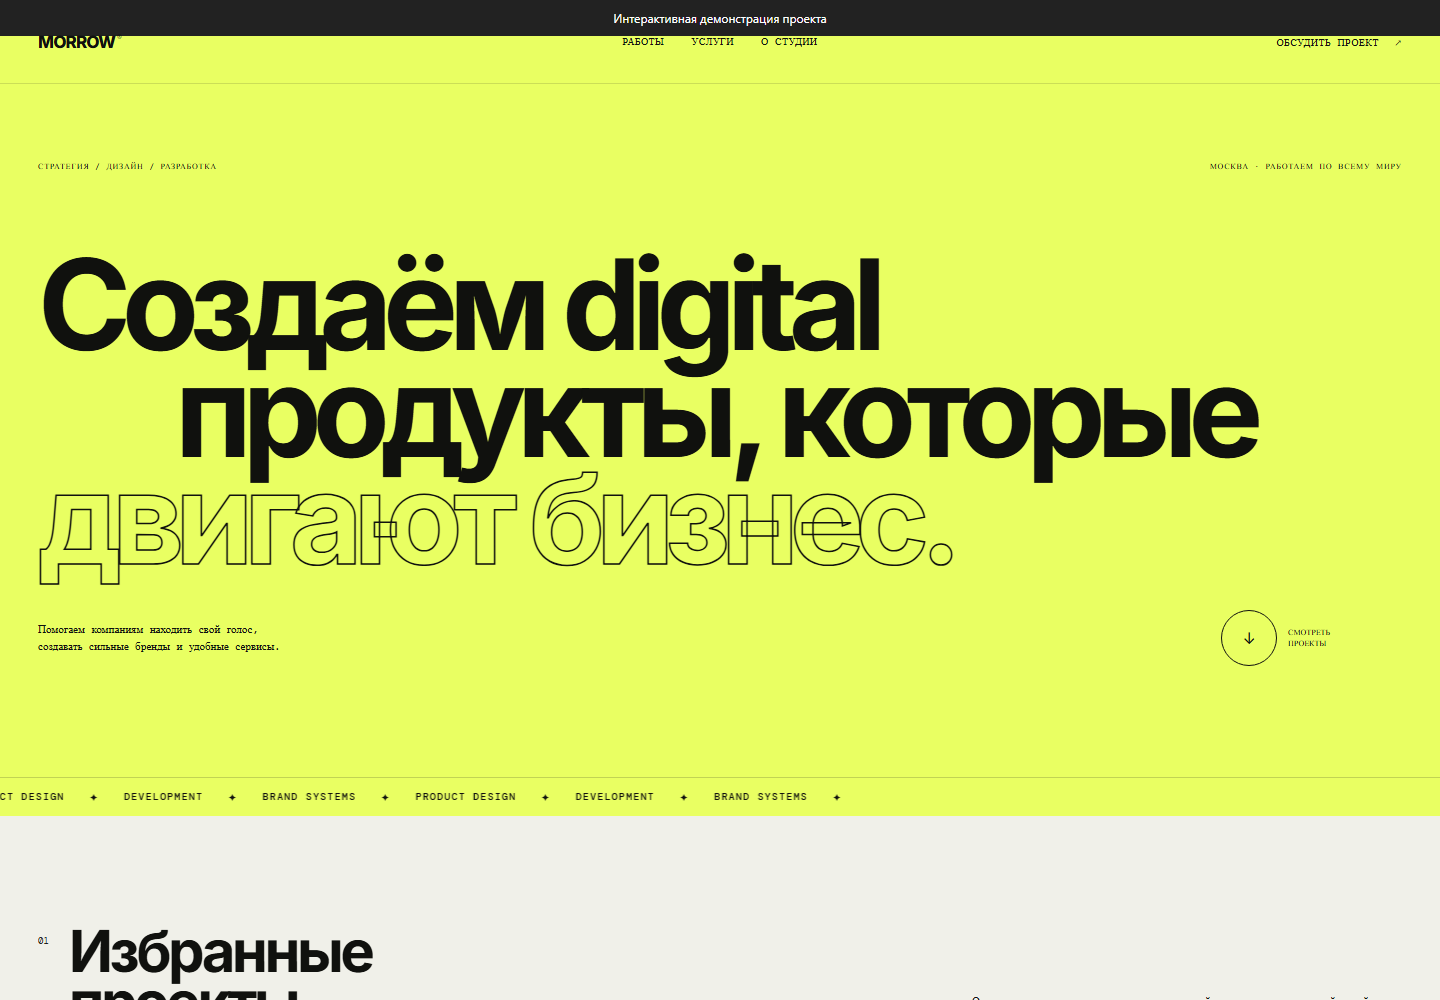
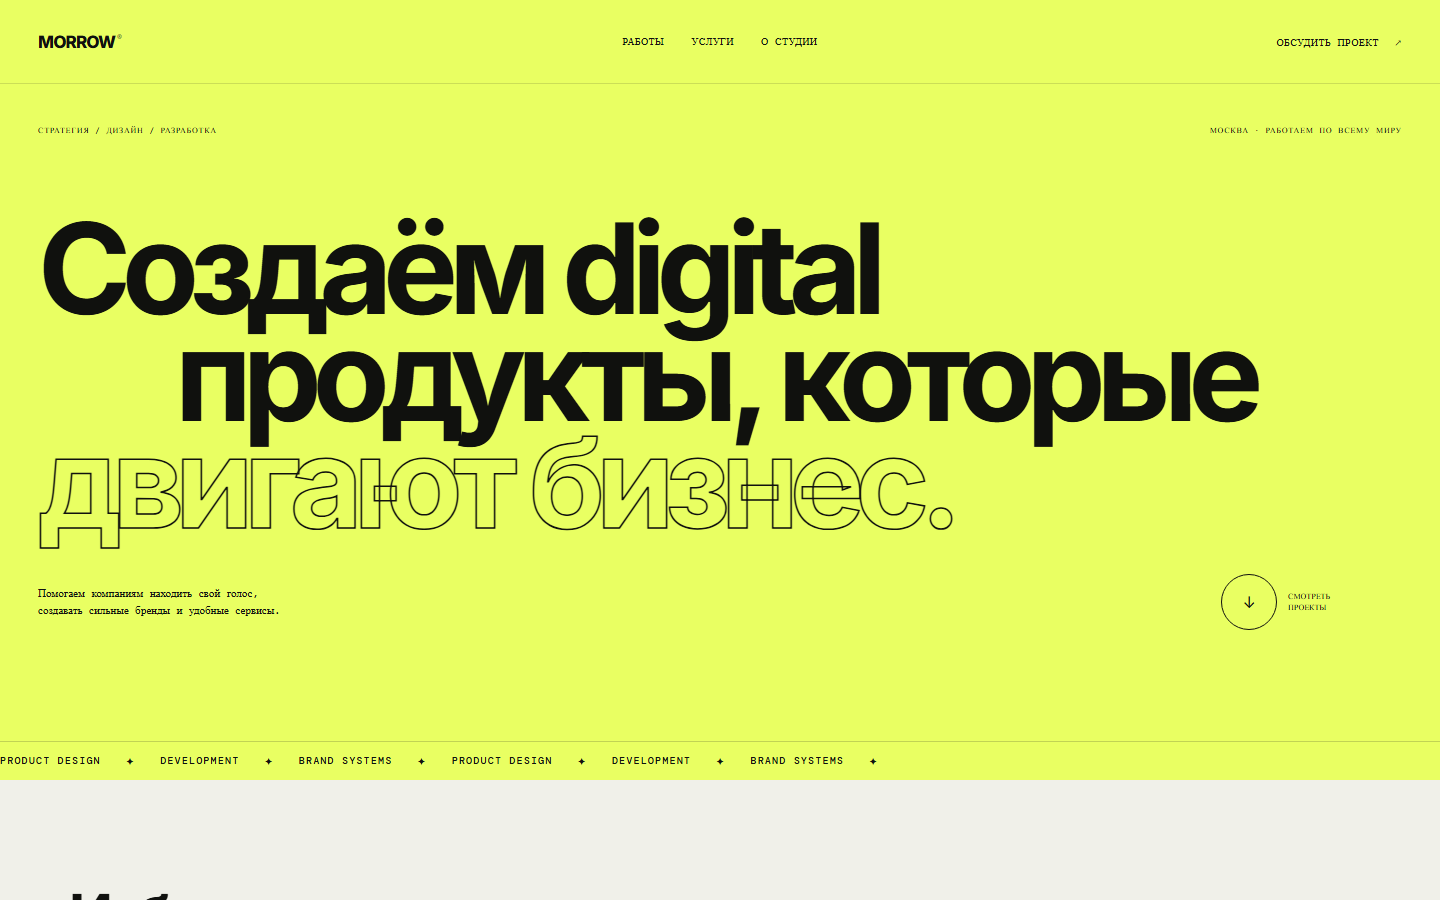
Polish project presentation, mobile layout and browser access

diff --git a/styles.css b/styles.css
@@ -1,7 +1,7 @@
 :root{--acid:#e9ff62;--black:#10110e;--paper:#f0f0e9;--muted:#77786f;--line:#c9cbc0;font-family:Inter,sans-serif;color:var(--black);background:var(--paper);font-synthesis:none}*{box-sizing:border-box}html{scroll-behavior:smooth}body{margin:0;min-width:320px;overflow-x:hidden}a{color:inherit;text-decoration:none}button,input,textarea{font:inherit}.header{position:absolute;top:0;left:0;right:0;z-index:4;display:grid;grid-template-columns:1fr auto 1fr;align-items:center;height:84px;padding:0 38px;border-bottom:1px solid #20211d26}.logo{font-size:17px;font-weight:800;letter-spacing:-.05em}.logo span{vertical-align:top;margin-left:2px;font:400 7px DM Mono}.header nav{display:flex;gap:27px}.header nav a,.contact-link{font:400 10px DM Mono;text-transform:uppercase;letter-spacing:.04em}.contact-link{justify-self:end}.contact-link span{margin-left:9px}.menu-button{display:none;border:0;background:none}.hero{position:relative;min-height:780px;padding:125px 38px 0;background:var(--acid);overflow:hidden}.hero-meta{display:flex;justify-content:space-between;margin-bottom:80px;font:400 8px DM Mono;letter-spacing:.1em;text-transform:uppercase}.hero h1{margin:0;font-size:clamp(62px,8.75vw,132px);font-weight:700;line-height:.85;letter-spacing:-.075em}.hero h1 span{display:block}.hero h1 span:nth-child(2){margin-left:9.5vw}.hero h1 .outline{color:transparent;-webkit-text-stroke:1.5px var(--black)}.hero-bottom{display:flex;align-items:end;justify-content:space-between;margin-top:38px;padding-bottom:30px}.hero-bottom>p{font:400 11px/1.55 DM Mono}.circle-link{display:flex;align-items:center;gap:11px;margin-right:5vw}.circle-link i{display:grid;place-items:center;width:56px;height:56px;border:1px solid var(--black);border-radius:50%;font-style:normal;transition:.2s}.circle-link:hover i{transform:rotate(-45deg);background:var(--black);color:var(--acid)}.circle-link span{font:400 8px/1.4 DM Mono;text-transform:uppercase}.ticker{position:absolute;left:0;right:0;bottom:0;border-top:1px solid #24251f33;overflow:hidden}.ticker div{display:flex;width:max-content;gap:25px;padding:12px 0;animation:ticker 24s linear infinite;font:500 10px DM Mono;letter-spacing:.12em}.ticker i{font-style:normal}@keyframes ticker{to{transform:translateX(-50%)}}
 .work{padding:110px 38px 130px}.section-heading{display:grid;grid-template-columns:1fr minmax(260px,430px);gap:60px;align-items:end;margin-bottom:65px}.section-heading>div{display:flex;gap:20px;align-items:start}.index{font:400 9px DM Mono;padding-top:9px}.section-heading h2{margin:0;font-size:58px;line-height:.88;letter-spacing:-.06em}.section-heading>p{margin:0;font:400 11px/1.65 DM Mono}.filters{display:flex;gap:7px;margin-bottom:20px}.filters button{border:1px solid #babcb1;border-radius:24px;background:none;padding:9px 15px;font:400 9px DM Mono;text-transform:uppercase;cursor:pointer}.filters button.active{background:var(--black);border-color:var(--black);color:white}.filters sup{margin-left:4px;font-size:6px}.project-grid{display:grid;grid-template-columns:1fr 1fr;gap:60px 18px}.project{transition:.3s}.project.hidden{display:none}.project-wide{grid-column:1/-1}.project-visual{position:relative;height:560px;overflow:hidden;background:#ddd}.project:not(.project-wide) .project-visual{height:500px}.project-caption{display:grid;grid-template-columns:1fr 1fr 24px;gap:30px;padding:15px 0;border-bottom:1px solid #bfc1b6}.project-caption span{font:400 7px DM Mono;text-transform:uppercase}.project-caption h3{margin:6px 0 0;font-size:22px;letter-spacing:-.04em}.project-caption p{margin:12px 0 0;font:400 9px/1.5 DM Mono}.project-caption>i{display:grid;place-items:center;width:24px;height:24px;border:1px solid #b7b9ad;border-radius:50%;font-style:normal}.project a:hover .project-caption>i{background:var(--black);color:white}.nova{background:#ff5d3c}.nova-copy{position:absolute;left:6%;top:10%;color:#181917}.nova-copy>span{font-size:25px;font-weight:800}.nova-copy>strong{display:block;margin:70px 0 18px;font-size:64px;line-height:.9;letter-spacing:-.07em}.nova-copy>small{font:400 10px DM Mono}.phone{position:absolute;right:8%;top:10%;width:260px;height:520px;padding:30px 20px;border:7px solid #151612;border-radius:37px 37px 0 0;background:#efeee7;box-shadow:0 25px 50px #641b123f;transform:rotate(5deg)}.phone-bar{display:flex;justify-content:space-between;font:500 8px DM Mono}.phone-bar i{width:50px;height:13px;border-radius:8px;background:#111}.phone>p{margin:30px 0 6px;color:#777;font:400 8px DM Mono}.phone>strong{font-size:29px}.chart{display:flex;align-items:end;gap:5px;height:120px;margin:20px 0}.chart i{flex:1;background:#111}.chart i:nth-child(1){height:35%}.chart i:nth-child(2){height:55%}.chart i:nth-child(3){height:43%}.chart i:nth-child(4){height:75%;background:#ff5d3c}.chart i:nth-child(5){height:64%}.chart i:nth-child(6){height:83%}.chart i:nth-child(7){height:100%}.bank-row{display:flex;align-items:center;gap:10px;padding:13px 0;border-top:1px solid #ccc}.bank-row>i{width:28px;height:28px;border-radius:50%;background:#d5d5cd}.bank-row span{display:grid;gap:2px;font:500 8px DM Mono}.bank-row small{color:#888;font-size:6px}.bank-row em{margin-left:auto;font-style:normal}.flora{background:#d8c7f2}.flora-logo{position:absolute;left:35px;top:28px;font-size:21px;font-weight:700}.flora-logo sup{font-size:7px}.bottle{position:absolute;left:50%;top:14%;width:165px;height:320px;transform:translateX(-50%) rotate(-4deg);border-radius:19px 19px 28px 28px;background:#f1ead5;box-shadow:0 24px 40px #6555753d}.bottle:before{content:'';position:absolute;left:28px;right:28px;top:-40px;height:47px;border-radius:7px 7px 2px 2px;background:#d9d0b8}.bottle i{display:grid;place-items:center;width:55px;height:55px;margin:47px auto 18px;border:1px solid #222;border-radius:50%;font:italic 29px serif}.bottle span,.bottle small{display:block;text-align:center}.bottle span{font:400 24px/1 Newsreader,serif}.bottle small{margin-top:70px;font:400 6px DM Mono;letter-spacing:.18em}.flora-note{position:absolute;left:35px;bottom:38px;font-size:20px;font-weight:500}.flora-note em{font-family:serif;font-weight:400}.leaf{position:absolute;width:70px;height:145px;border-radius:100% 0;background:#718761}.leaf.one{right:3%;bottom:-15px;transform:rotate(-30deg)}.leaf.two{right:12%;bottom:-50px;transform:rotate(20deg);background:#91a879}.arka{background:#c2c1b8;color:#161713;padding:25px}.arka-top{display:flex;justify-content:space-between;font:500 7px DM Mono}.arka>strong{position:absolute;left:25px;top:120px;z-index:2;font-size:48px;line-height:.85;letter-spacing:-.06em}.building{position:absolute;right:0;bottom:0;display:flex;width:72%;height:75%;background:#dad8ce;clip-path:polygon(22% 0,100% 13%,100% 100%,0 100%)}.building i{flex:1;border-right:10px solid #aaa9a2;background:repeating-linear-gradient(#5e625e 0 20px,#b5b5ad 21px 30px)}.arka>small{position:absolute;left:25px;bottom:25px;z-index:2;font:500 6px DM Mono;writing-mode:vertical-rl}.locus{background:#c3d0bb;color:#f6f2e8}.locus-nav{position:absolute;left:4%;right:4%;top:28px;display:flex;align-items:center;justify-content:space-between;z-index:2;font:400 8px DM Mono}.locus-nav strong{font:700 20px Inter}.locus-nav i{display:grid;place-items:center;width:30px;height:30px;border:1px solid #fff8;border-radius:50%;font-style:normal}.locus-copy{position:absolute;left:6%;top:25%;z-index:3}.locus-copy small{font:500 7px/1.5 DM Mono;letter-spacing:.12em}.locus-copy strong{display:block;margin:25px 0;font:400 58px/.9 Georgia,serif;letter-spacing:-.05em}.locus-copy button{border:1px solid #fff8;border-radius:25px;background:#f4f0e6;padding:10px 16px;color:#222;font:500 8px DM Mono}.cabin{position:absolute;inset:0;background:linear-gradient(#6d827c 0 58%,#526952 59%)}.roof{position:absolute;right:4%;bottom:39%;width:45%;height:38%;background:#353a33;clip-path:polygon(50% 0,100% 72%,100% 100%,0 100%,0 72%)}.wall{position:absolute;right:7%;bottom:13%;display:flex;gap:10px;width:39%;height:40%;padding:20px;background:#6e4f3f}.wall i{flex:1;background:linear-gradient(#d9bd7f,#795d48);box-shadow:inset 0 0 0 5px #322f29}.trees{position:absolute;right:0;top:20%;color:#31483b;font-size:100px;letter-spacing:-40px}.services{padding:115px 38px;background:var(--black);color:#f0f0e9}.section-heading.light>p{color:#9b9d93}.service-list{border-top:1px solid #45463f}.service-list article{display:grid;grid-template-columns:60px 1fr 1fr .8fr;gap:25px;padding:30px 0;border-bottom:1px solid #45463f}.service-list article>span{font:400 8px DM Mono;color:#8a8c81}.service-list h3{margin:0;font-size:27px;line-height:.95;letter-spacing:-.04em}.service-list p{max-width:360px;margin:0;color:#aaa99f;font:400 9px/1.65 DM Mono}.service-list div{display:flex;align-content:start;justify-content:flex-end;flex-wrap:wrap;gap:5px}.service-list i{padding:6px 8px;border:1px solid #515249;border-radius:20px;color:#aaa99f;font:400 7px DM Mono;font-style:normal}.about{display:grid;grid-template-columns:.8fr 1.6fr;gap:80px;padding:120px 38px 150px}.about-number{display:flex;align-items:end;gap:12px}.about-number strong{font-size:180px;line-height:.67;letter-spacing:-.1em}.about-number span{font:400 8px/1.5 DM Mono;text-transform:uppercase}.eyebrow{font:500 8px DM Mono;text-transform:uppercase;letter-spacing:.11em}.about-copy h2{margin:26px 0 55px;font-size:42px;line-height:1.08;letter-spacing:-.055em}.about-copy>div{display:grid;grid-template-columns:1fr 1fr;gap:45px}.about-copy>div p{margin:0;font:400 10px/1.7 DM Mono}.contact{display:grid;grid-template-columns:1.2fr .8fr;gap:80px;padding:100px 38px;background:var(--acid)}.contact h2{margin:18px 0 55px;font-size:60px;line-height:.9;letter-spacing:-.06em}.contact h2 em{font-family:Georgia,serif;font-weight:400}.contact>div>a{font:500 13px DM Mono;border-bottom:1px solid;padding-bottom:4px}.contact form{display:grid;gap:20px}.contact label{display:grid;gap:7px;font:500 8px DM Mono;text-transform:uppercase}.contact input,.contact textarea{border:0;border-bottom:1px solid #7f873d;background:transparent;outline:0;padding:9px 0;font-size:12px;resize:none}.contact form button{display:flex;justify-content:space-between;border:1px solid var(--black);background:var(--black);color:white;padding:15px;cursor:pointer;font:500 9px DM Mono;text-transform:uppercase}.contact form button:hover{background:transparent;color:var(--black)}.form-status{min-height:14px;margin:0;font:500 8px DM Mono}footer{display:grid;grid-template-columns:1fr auto 1fr;align-items:center;padding:34px 38px;background:var(--black);color:#ecece5}footer>div{display:flex;gap:20px;font:400 8px DM Mono;text-transform:uppercase}footer small{justify-self:end;color:#77786f;font:400 7px DM Mono}.cursor-dot{position:fixed;left:0;top:0;z-index:20;width:8px;height:8px;border-radius:50%;background:#fff;mix-blend-mode:difference;pointer-events:none;transform:translate(-50%,-50%);opacity:0;transition:opacity .2s}
 @media(max-width:900px){.header{grid-template-columns:1fr auto}.header nav,.contact-link{display:none}.menu-button{display:grid;gap:4px}.menu-button span{display:block;width:22px;height:1px;background:#111}.hero{min-height:700px}.hero h1{font-size:10vw}.hero h1 span:nth-child(2){margin-left:0}.section-heading{grid-template-columns:1fr}.project-visual{height:470px!important}.service-list article{grid-template-columns:45px 1fr 1fr}.service-list article>div{display:none}.about{grid-template-columns:1fr}.contact{grid-template-columns:1fr}footer{grid-template-columns:1fr auto}footer>div{display:none}}
-@media(max-width:600px){.header{height:66px;padding:0 16px}.hero{min-height:620px;padding:95px 16px 0}.hero-meta span:last-child{display:none}.hero-meta{margin-bottom:70px}.hero h1{font-size:15vw;line-height:.88}.hero h1 .outline{-webkit-text-stroke:1px}.hero-bottom{margin-top:60px}.hero-bottom>p{font-size:8px}.circle-link{margin:0}.circle-link i{width:45px;height:45px}.work,.services{padding:80px 16px}.section-heading{margin-bottom:40px}.section-heading h2{font-size:44px}.filters{overflow:auto;margin-right:-16px}.project-grid{display:block}.project{margin-bottom:48px}.project-visual{height:400px!important}.project-caption{grid-template-columns:1fr 26px}.project-caption>p{display:none}.nova-copy>strong{font-size:42px}.phone{right:-40px;top:17%;transform:scale(.7) rotate(5deg);transform-origin:top}.flora-note{font-size:16px}.locus-copy strong{font-size:42px}.cabin{filter:brightness(.75)}.service-list article{grid-template-columns:30px 1fr;padding:25px 0}.service-list article>p{grid-column:2}.about{gap:60px;padding:90px 16px}.about-number strong{font-size:130px}.about-copy h2{font-size:31px}.about-copy>div{grid-template-columns:1fr}.contact{padding:80px 16px;gap:60px}.contact h2{font-size:45px}footer{padding:28px 16px}.cursor-dot{display:none}}
+@media(max-width:600px){.header{height:66px;padding:0 16px}.hero{min-height:550px;padding:95px 16px 60px}.hero-meta span:last-child{display:none}.hero-meta{margin-bottom:44px}.hero h1{font-size:15vw;line-height:.88}.hero h1 .outline{-webkit-text-stroke:1px}.hero-bottom{margin-top:36px}.hero-bottom>p{font-size:8px}.circle-link{margin:0}.circle-link i{width:45px;height:45px}.work,.services{padding:80px 16px}.section-heading{margin-bottom:40px}.section-heading h2{font-size:44px}.filters{overflow:auto;margin-right:-16px}.project-grid{display:block}.project{margin-bottom:48px}.project-visual{height:auto!important;aspect-ratio:4/3}.project-caption{grid-template-columns:1fr 26px}.project-caption>p{display:none}.nova-copy>strong{font-size:42px}.phone{right:-40px;top:17%;transform:scale(.7) rotate(5deg);transform-origin:top}.flora-note{font-size:16px}.locus-copy strong{font-size:42px}.cabin{filter:brightness(.75)}.service-list article{grid-template-columns:30px 1fr;padding:25px 0}.service-list article>p{grid-column:2}.about{gap:60px;padding:90px 16px}.about-number strong{font-size:130px}.about-copy h2{font-size:31px}.about-copy>div{grid-template-columns:1fr}.contact{padding:80px 16px;gap:60px}.contact h2{font-size:45px}footer{padding:28px 16px}.cursor-dot{display:none}}
 
 
 .case-dialog{width:min(560px,92vw);padding:32px;border:1px solid #aaa;border-radius:18px;background:#f7f7f0;color:#222}.case-dialog::backdrop{background:#111b}.case-dialog>button{float:right;border:0;background:none;font-size:26px;cursor:pointer}.case-dialog h2{font-size:28px}.case-dialog p{line-height:1.7}.case-dialog small{display:block;line-height:1.6;color:#666}.case-cta{display:inline-block;padding:10px 18px;border-radius:30px;background:#222;color:white}button:focus-visible,a:focus-visible{outline:3px solid #777;outline-offset:3px}@media(max-width:900px){header nav.mobile-open{position:absolute;top:70px;right:16px;display:flex!important;flex-direction:column;gap:20px;padding:25px;background:#f6f6ee;border:1px solid #aaa;border-radius:12px;z-index:100}}

diff --git a/index.html b/index.html
@@ -12,8 +12,7 @@
   <title>Morrow — digital products studio</title>
 </head>
 <body>
-<div role="note" style="padding:9px 16px;background:#222;color:#fff;font:12px/1.5 system-ui;text-align:center">Интерактивная демонстрация проекта</div>
-  <div class="cursor-dot"></div>
+<div class="cursor-dot"></div>
   <header class="header">
     <a class="logo" href="#top">MORROW<span>®</span></a>
     <nav id="primary-navigation"><a href="#work">Работы</a><a href="#services">Услуги</a><a href="#about">О студии</a></nav>

diff --git a/README.md b/README.md
@@ -1,4 +1,4 @@
-# Morrow Studio — сайт цифровой студии
+# Morrow Studio - сайт цифровой студии
 
 Адаптивный сайт студии: проекты, фильтры, услуги, навигация и контактная форма.
 
